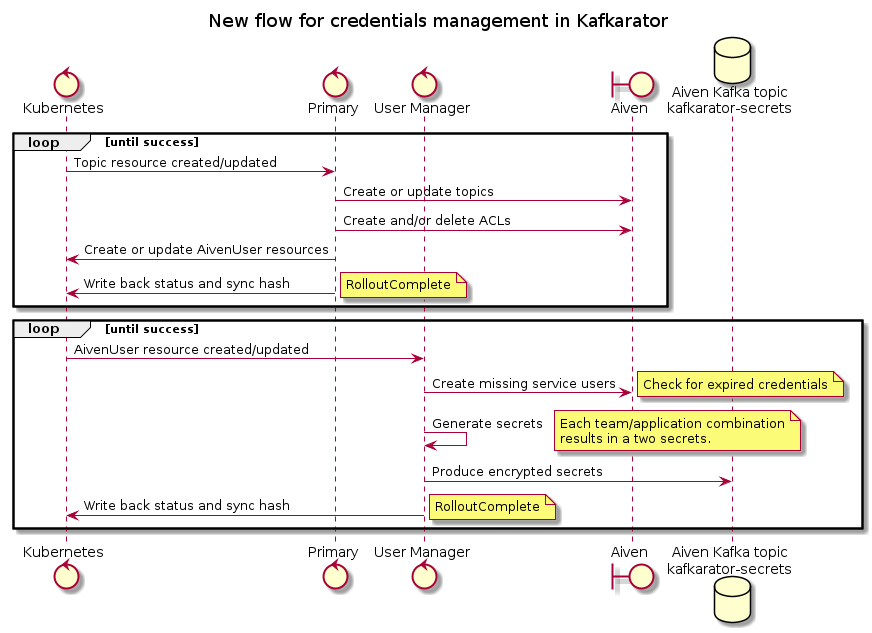
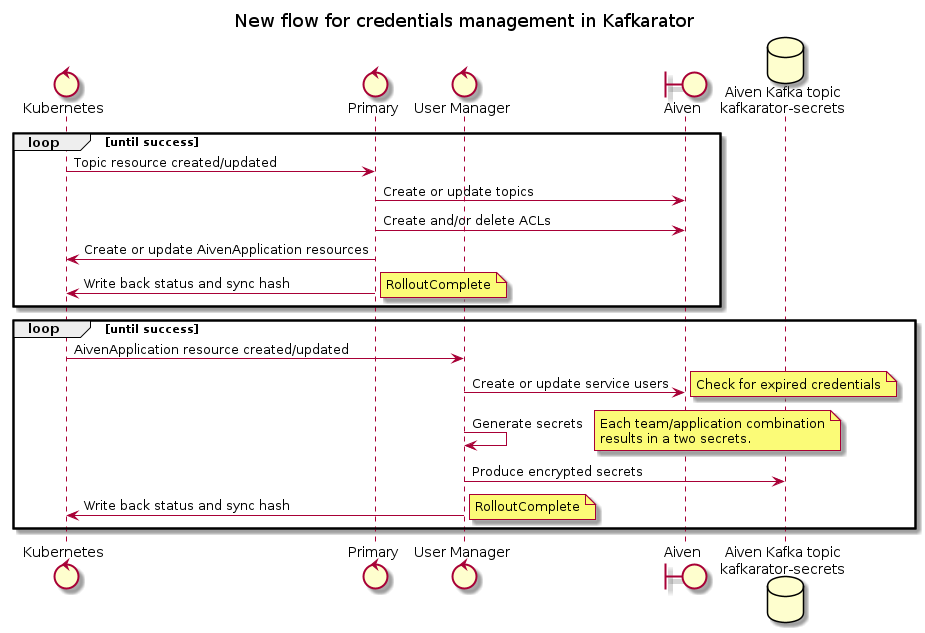
Change name of new CRD to AivenApplication

diff --git a/doc/adr/0005-kafkarator-credentials-rotation-and-flow.md b/doc/adr/0005-kafkarator-credentials-rotation-and-flow.md
@@ -91,10 +91,10 @@ We will split the loop in two parts. The existing main loop will now perform the
 
 1. Create or update topics
 2. Create and/or delete ACLs
-3. Create or update an AivenUser resouce for each application with access to the topic
+3. Create or update an AivenApplication resouce for each application with access to the topic
 4. Write back status and sync hash
 
-A new loop will take over the management of AivenUsers and perform these steps:
+A new loop will take over the management of AivenApplications and perform these steps:
 
 1. Create or update service users in Aiven
 2. Check for expired credentials
